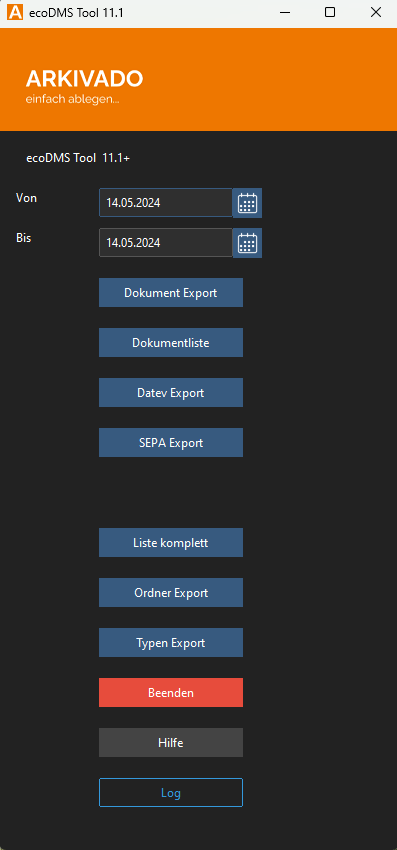
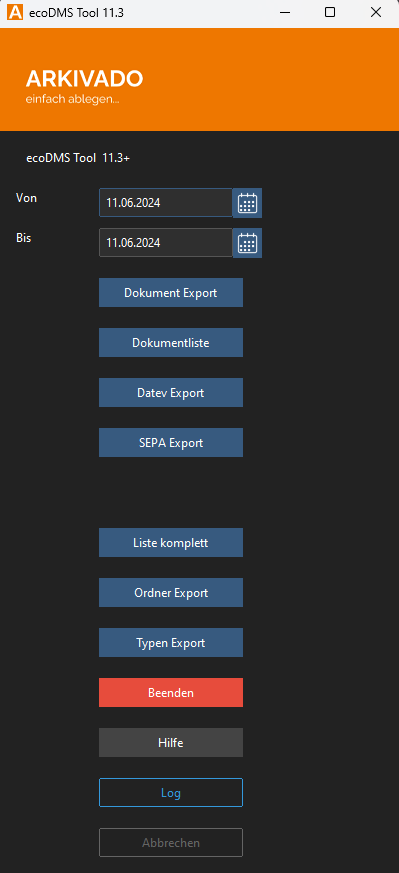
Erweitert um Konfig

diff --git a/deploy/arkivado up/3. Konfiguration/004config.html b/deploy/arkivado up/3. Konfiguration/004config.html
@@ -3159,7 +3159,7 @@ klicken Sie dafür auf Konfigrueren. </p>
 <p>Nachdem die Basisinformationen hinterlegt wurden, muss nun noch das Mapping eingestellt werden:</p>
 <p><a class="md-button" href="005config_mapping.html">Mapping Einstellungen</a></p>
 <p>Zum Schluss können sie optional eine Auschluss Liste definieren, sodass nur "sinnvolle" Dokumente in ecoDMS abgelegt werden:</p>
-<p><a class="md-button" href="006config_whitelist">Datei Endungen Whitelist</a></p>
+<p><a class="md-button" href="006config_whitelist.html">Datei Endungen Whitelist</a></p>
 
 
 

diff --git a/docs/arkivado ecoDMS Tool/5. Wissenswertes/FAQ/EcoDMS Zugangangsdaten ändern.md b/docs/arkivado ecoDMS Tool/5. Wissenswertes/FAQ/EcoDMS Zugangangsdaten ändern.md
@@ -1,0 +1,19 @@
+# EcoDMS Zugangsdaten ändern
+
+
+## Problembeschreibung
+Sieh habben eine funktionierende Konfiguration und wollen
+Nun die EcoDMS Zugangsdaten ändern. 
+Oder Sie kopieren von einem Kollegen die JSON und wollen nun Ihre Zugangangsdaten hinterlegen. 
+
+
+
+## Lösung 
+Drücken Sie ````STRG + K``` um die Konfiguration zu öffnen. 
+
+Dort können Sie die Zugangsdaten von ecoDMS ändern. 
+
+!!!tip
+    - Sie können auch einen Button in zum Konfigurieren hinterlegen die Button Funktion heißt ```konfigurieren```
+
+![Konfiguration öffnen](<../../3. Konfiguration/img/KonfigurtionZugangsdaten.png>)

diff --git a/docs/arkivado ecoDMS Tool/2. Verwendung/001funktionen.md b/docs/arkivado ecoDMS Tool/2. Verwendung/001funktionen.md
@@ -8,6 +8,7 @@ Folgendes kann das arkivado Tool
 - SEPA Export
 - Ordner Export
 - Typen Export
+- Konfigurieren
 
 ## Dokumentliste Export
 Hiermit kann eine ```csv``` oder ```Excel``` Liste estellt werden. 
@@ -46,3 +47,7 @@ Erstellt eine ```csv``` oder ```Excel``` Datei mit den in ecoMDS angelegten Ordn
 ## Typen Export
 Erstellt eine ```csv``` oder ```Excel``` Datei mit den in ecoMDS angelegten Dokument Typen
 
+
+## Konfigurieren
+Die Einstellungsmaske für die ecoDMS Zugangsdaten. (Keine weitere  Einstellungen)
+Kann auch mit ``` STRG + K ``` aufgerufen werden.

diff --git a/docs/arkivado ecoDMS Tool/changelog.md b/docs/arkivado ecoDMS Tool/changelog.md
@@ -2,6 +2,20 @@
 
 alle Aktuallisierungen vom arkivado ecoDMS Tool 
 
+## 11.3    - <small>11.06.2024</small> { id="11.2" }
+
+
+
+<b><small>Feature</small></b> 
+
+- EcoDMS Zugangesdaten  über die grafische Oberfläche  einstellen. Drücken Sie einfach ```STRG + K``` 
+- EcoDMS Multifkator Authentifizierung unterstützt
+
+<b><small>Verbesserungen</small></b> 
+
+- Große interne Refactoring 
+- Funktionsnamen sind nun Case insensitive    
+
 
 ## 11.2   - <small>23.05.2024</small> { id="11.2" }
 

diff --git a/docs/arkivado ecoDMS Tool/2. Verwendung/004first_run.md b/docs/arkivado ecoDMS Tool/2. Verwendung/004first_run.md
@@ -31,3 +31,7 @@ Beachten Sie auch, dass wenn Sie dafür einen speziellen User anlegen, dieser mi
 5. Geben Sie den Lizenzschlüssel des arkivado tools ein
 *Nicht den EcoDMS-Lizenzschlüssel benutzen!*
 <br><br>![EcoDMS Lizenzschlüssel](../img/Lizenschluessel.png)
+
+
+!!!tip Ändern der Zugangsdaten
+    - bestehende ecoDMS Zugangsdaten können auch grafisch geändert werden: sieh [hier](<../5. Wissenswertes/FAQ/EcoDMS Zugangangsdaten ändern.md>)

diff --git a/docs/arkivado up/3. Konfiguration/004config.md b/docs/arkivado up/3. Konfiguration/004config.md
@@ -27,4 +27,4 @@ Nachdem die Basisinformationen hinterlegt wurden, muss nun noch das Mapping eing
 
 Zum Schluss können sie optional eine Auschluss Liste definieren, sodass nur "sinnvolle" Dokumente in ecoDMS abgelegt werden:
 
-[Datei Endungen Whitelist](006config_whitelist){ .md-button }
+[Datei Endungen Whitelist](006config_whitelist.md){ .md-button }

diff --git a/docs/arkivado ecoDMS Tool/index.md b/docs/arkivado ecoDMS Tool/index.md
@@ -1,6 +1,6 @@
 #  Übersicht
 
-<small>Version: 11.2 (Stand 23.05.2024)</small>
+<small>Version: 11.3 (Stand 11.06.2024)</small>
 
 !!! info "Beta Status"
     Diese Dokumentation befindet sich derzeit im Aufbau. Fagen, oder etwas unklar? [Kontakt aufnehmen](mailto:info@schlumberger.digital)
